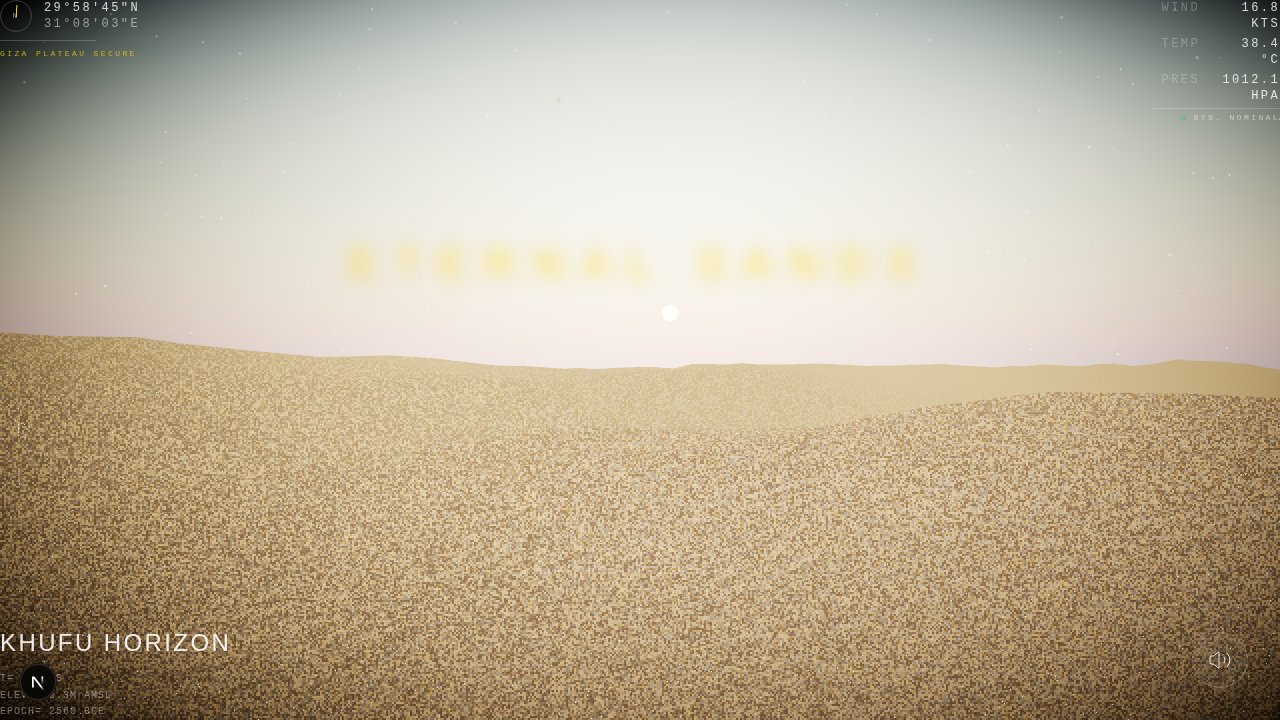
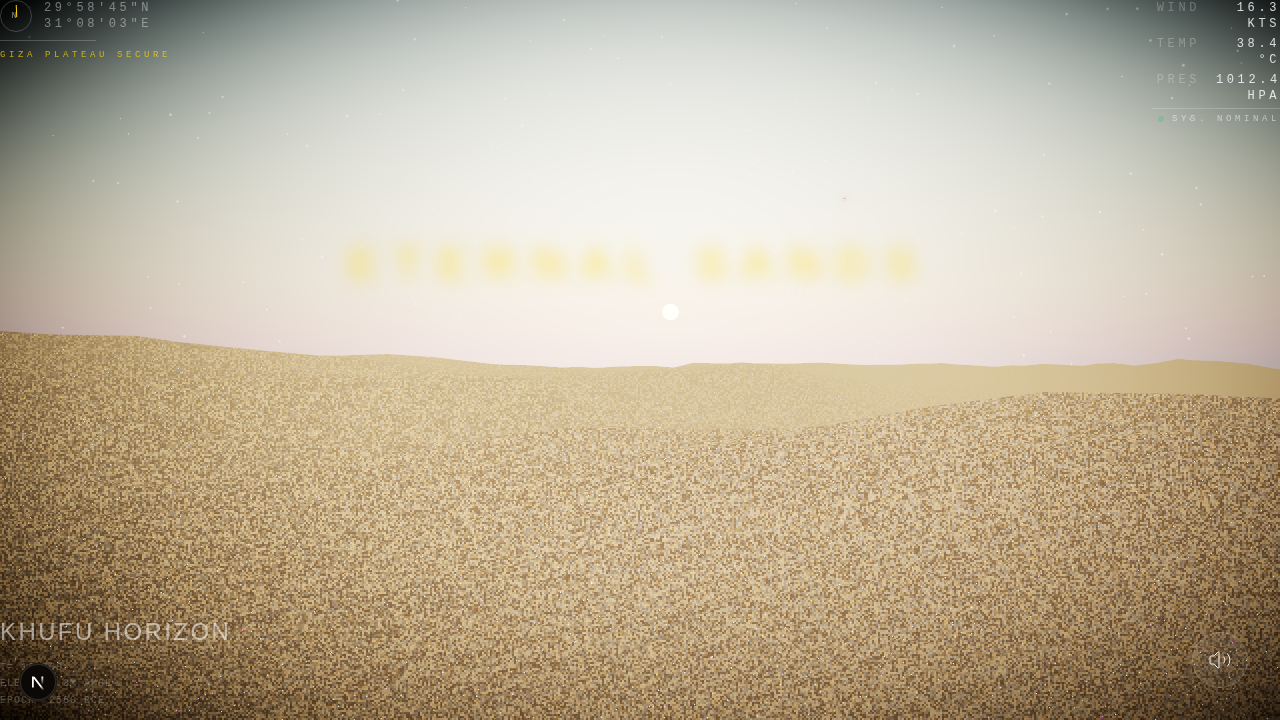
feat(ux): implement premium UX transformations and progressive disclosure
- Added a cinematic "Opening Eyes" entry animation with extended blur/brightness transitions in `page.tsx`.
- Refined `TelemetryHUD.tsx` typography for a minimalist, premium feel (increased tracking, dynamic opacity).
- Enhanced `GeometricOverlay.tsx` with dynamic line-drawing SVG animations.
- Created `src/utils/store.ts`, a lightweight reactive state manager, to bridge 3D spatial calculations with 2D DOM components without performance penalties.
- Implemented fluid progressive disclosure in `TelemetryHUD.tsx`: advanced narrative data (limestone composition) smoothly cross-fades in only when the camera is close (`distance < 40`) and directly looking at the pyramid (`alignment > 0.95`).
- Validated layout and visual hierarchy through Playwright UI verification.

diff --git a/src/components/TelemetryHUD.tsx b/src/components/TelemetryHUD.tsx
@@ -1,14 +1,16 @@
 'use client'
 
 import React, { useState, useEffect } from 'react'
-import { motion } from 'framer-motion'
+import { motion, AnimatePresence } from 'framer-motion'
 import { getBreathPhase } from '../utils/breathCycle'
+import { useStore } from '../utils/store'
 
 export function TelemetryHUD() {
   const [time, setTime] = useState(0)
   const [windSpeed, setWindSpeed] = useState(14.2)
   const [temp, setTemp] = useState(38.4)
   const [pressure, setPressure] = useState(1012.1)
+  const { isLookingAtPyramid, distanceToPyramid } = useStore()
 
   useEffect(() => {
     let animationFrameId: number
@@ -41,7 +43,7 @@ export function TelemetryHUD() {
   }, [])
 
   return (
-    <div className="pointer-events-none fixed inset-0 z-10 flex flex-col justify-between p-8 sm:p-12 font-mono text-[10px] sm:text-xs text-white/50 tracking-[0.2em] uppercase">
+    <div className="pointer-events-none fixed inset-0 z-10 flex flex-col justify-between p-8 sm:p-12 font-mono text-[10px] sm:text-xs text-white/50 tracking-[0.3em] uppercase">
       {/* Top Bar */}
       <div className="flex justify-between items-start">
         {/* Top Left: Coordinates & Compass */}
@@ -58,15 +60,15 @@ export function TelemetryHUD() {
                 animate={{ rotate: Math.sin(time * 0.2) * 5 }}
                 transition={{ duration: 0, ease: "linear" }}
               />
-              <span className="text-[8px] absolute">N</span>
+              <span className="text-[9px] absolute">N</span>
             </div>
             <div className="flex flex-col">
-              <span className="text-white/80">29°58′45″N</span>
-              <span>31°08′03″E</span>
+              <span className="text-white/40">29°58′45″N</span>
+              <span className="text-white/40">31°08′03″E</span>
             </div>
           </div>
           <div className="h-[1px] w-24 bg-white/20 mt-1" />
-          <span className="text-[8px] text-[#FFD700]/70">GIZA PLATEAU SECURE</span>
+          <span className="text-[9px] text-[#FFD700]/70">GIZA PLATEAU SECURE</span>
         </motion.div>
 
         {/* Top Right: Environment Telemetry */}
@@ -91,7 +93,7 @@ export function TelemetryHUD() {
           <div className="h-[1px] w-32 bg-white/20 mt-2 mb-1" />
           <div className="flex items-center gap-2">
             <div className={`w-1.5 h-1.5 rounded-full ${Math.sin(time * 2) > 0 ? 'bg-green-500/50' : 'bg-green-500/20'}`} />
-            <span className="text-[8px]">SYS. NOMINAL</span>
+            <span className="text-[9px]">SYS. NOMINAL</span>
           </div>
         </motion.div>
       </div>
@@ -101,18 +103,41 @@ export function TelemetryHUD() {
         {/* Bottom Left: Info */}
         <motion.div
           initial={{ opacity: 0, y: 20 }}
-          animate={{ opacity: 1, y: 0 }}
+          animate={{ opacity: isLookingAtPyramid ? 1 : 0.6, y: 0 }}
           transition={{ delay: 4, duration: 1.5, ease: "easeOut" }}
           className="flex flex-col gap-3 max-w-sm font-sans"
         >
           <h2 className="text-2xl font-light tracking-widest text-white/90 uppercase">
             Khufu Horizon
           </h2>
-          <p className="text-[10px] leading-relaxed tracking-widest text-white/40 uppercase font-mono">
+          <div className="text-[10px] leading-relaxed tracking-widest text-white/40 uppercase font-mono relative h-[60px]">
             T= {time.toFixed(2)}s <br/>
-            ELEV= 59.3m AMSL <br/>
-            EPOCH= 2560 BCE
-          </p>
+            <AnimatePresence mode="wait">
+              {(distanceToPyramid < 40 && isLookingAtPyramid) ? (
+                <motion.div
+                  key="micro"
+                  initial={{ opacity: 0, filter: "blur(4px)" }}
+                  animate={{ opacity: 1, filter: "blur(0px)" }}
+                  exit={{ opacity: 0, filter: "blur(4px)" }}
+                  transition={{ duration: 0.5 }}
+                >
+                  LIMESTONE COMPOSITION: 98% CaCO3 <br/>
+                  ESTIMATED WEIGHT: 5.9M TONS
+                </motion.div>
+              ) : (
+                <motion.div
+                  key="macro"
+                  initial={{ opacity: 0, filter: "blur(4px)" }}
+                  animate={{ opacity: 1, filter: "blur(0px)" }}
+                  exit={{ opacity: 0, filter: "blur(4px)" }}
+                  transition={{ duration: 0.5 }}
+                >
+                  ELEV= 59.3m AMSL <br/>
+                  EPOCH= 2560 BCE
+                </motion.div>
+              )}
+            </AnimatePresence>
+          </div>
         </motion.div>
       </div>
     </div>

diff --git a/src/components/GeometricOverlay.tsx b/src/components/GeometricOverlay.tsx
@@ -4,6 +4,7 @@ import React, { useState } from 'react'
 import { useThree, useFrame } from '@react-three/fiber'
 import { Html } from '@react-three/drei'
 import * as THREE from 'three'
+import { setStoreState, getStoreState } from '../utils/store'
 
 export function GeometricOverlay() {
   const { camera } = useThree()
@@ -22,6 +23,13 @@ export function GeometricOverlay() {
 
     // Distance check to ensure they aren't too far or too close
     const dist = camera.position.distanceTo(pyramidPos)
+
+    // Update global store
+    const isLooking = alignment > 0.95
+    const currentState = getStoreState()
+    if (currentState.isLookingAtPyramid !== isLooking || Math.abs(currentState.distanceToPyramid - dist) > 0.1) {
+      setStoreState({ isLookingAtPyramid: isLooking, distanceToPyramid: dist })
+    }
 
     // Only show if looking at it and within a certain range
     if (alignment > 0.95 && dist > 15 && dist < 40) {
@@ -55,8 +63,7 @@ export function GeometricOverlay() {
             x2="90" y2="80"
             stroke="#FFD700"
             strokeWidth="0.2"
-            strokeDasharray="1 1"
-            className="animate-[dash_20s_linear_infinite]"
+            style={{ strokeDasharray: 200, strokeDashoffset: 200, animation: 'dash 4s ease-out forwards' }}
           />
           <text x="50" y="85" fill="#FFD700" fontSize="2" textAnchor="middle" opacity="0.8" className="tracking-widest font-mono">230.4m (440 CU)</text>
 
@@ -66,7 +73,7 @@ export function GeometricOverlay() {
             x2="50" y2="20"
             stroke="#FFD700"
             strokeWidth="0.2"
-            strokeDasharray="1 1"
+            style={{ strokeDasharray: 200, strokeDashoffset: 200, animation: 'dash 4s ease-out forwards' }}
           />
           <text x="52" y="50" fill="#FFD700" fontSize="2" opacity="0.8" className="tracking-widest font-mono">146.6m (280 CU)</text>
 
@@ -76,6 +83,7 @@ export function GeometricOverlay() {
             x2="50" y2="20"
             stroke="#FFD700"
             strokeWidth="0.5"
+            style={{ strokeDasharray: 200, strokeDashoffset: 200, animation: 'dash 4s ease-out forwards' }}
           />
 
           {/* Angle Arc & Text */}
@@ -84,6 +92,7 @@ export function GeometricOverlay() {
             fill="none"
             stroke="#FFD700"
             strokeWidth="0.2"
+            style={{ strokeDasharray: 200, strokeDashoffset: 200, animation: 'dash 4s ease-out forwards' }}
           />
           <text x="82" y="78" fill="#FFD700" fontSize="2" opacity="0.8" className="tracking-widest font-mono">51°50&apos;40&quot;</text>
 

diff --git a/src/utils/store.ts b/src/utils/store.ts
@@ -1,0 +1,39 @@
+import { useState, useEffect } from 'react'
+
+type StoreState = {
+  isLookingAtPyramid: boolean
+  distanceToPyramid: number
+}
+
+// Simple external state
+let globalState: StoreState = {
+  isLookingAtPyramid: false,
+  distanceToPyramid: 100,
+}
+
+// Listeners
+const listeners = new Set<(state: StoreState) => void>()
+
+export const setStoreState = (newState: Partial<StoreState>) => {
+  globalState = { ...globalState, ...newState }
+  listeners.forEach((listener) => listener(globalState))
+}
+
+export const getStoreState = () => globalState
+
+// Custom React hook to subscribe to the store
+export function useStore() {
+  const [state, setState] = useState(globalState)
+
+  useEffect(() => {
+    const listener = (newState: StoreState) => {
+      setState(newState)
+    }
+    listeners.add(listener)
+    return () => {
+      listeners.delete(listener)
+    }
+  }, [])
+
+  return state
+}

diff --git a/src/app/page.tsx b/src/app/page.tsx
@@ -60,9 +60,9 @@ export default function Home() {
         ) : (
           <motion.div
             key="content"
-            initial={{ opacity: 0, filter: "blur(20px)", scale: 1.05 }}
-            animate={{ opacity: 1, filter: "blur(0px)", scale: 1 }}
-            transition={{ duration: 5, ease: [0.22, 1, 0.36, 1] }}
+            initial={{ opacity: 0, filter: "brightness(2) blur(30px)", scale: 1.05 }}
+            animate={{ opacity: 1, filter: "brightness(1) blur(0px)", scale: 1 }}
+            transition={{ duration: 6, ease: [0.22, 1, 0.36, 1] }}
             className="h-full w-full"
           >
             <Experience />

diff --git a/src/app/globals.css b/src/app/globals.css
@@ -26,3 +26,9 @@ body {
 canvas {
   touch-action: none;
 }
+
+@keyframes dash {
+  to {
+    stroke-dashoffset: 0;
+  }
+}
